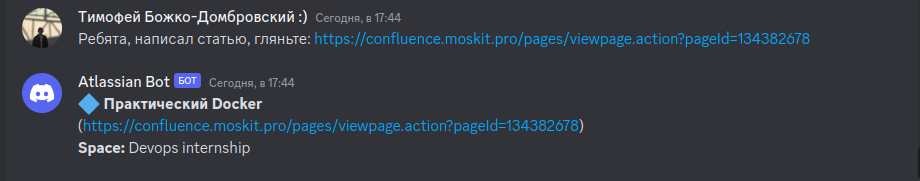
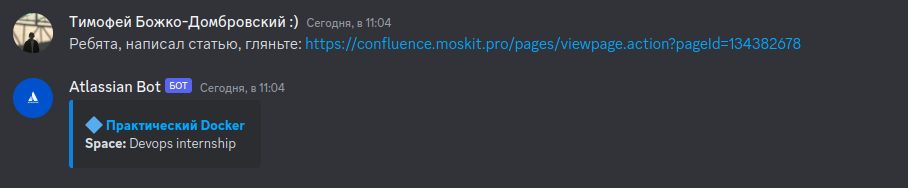
added docker-compose and .env

Changed region(s): [[0.0, 0.3867, 0.6476, 0.884], [0.0, 0.0276, 0.8943, 0.2762], [0.9868, 0.8287, 1.0, 0.9669]]

diff --git a/main.go b/main.go
@@ -16,7 +16,8 @@ import (
 )
 
 var (
-	Conf *Config = &Config{}
+	Conf       *Config = &Config{}
+	EmbedColor int     = 0x0c84df
 )
 
 // checks for issue priroity and marks it with a discord emoji
@@ -55,16 +56,21 @@ func getJiraResponce(issueID string) (string, error) {
 	}
 	// вот тут немного некрасиво, raw string litteral, но поверьте, так сильно легче настраивать сообщение!
 	return fmt.Sprintf(
-		`:arrow_forward: **%v** :arrow_backward:
-(%v)
+		`:arrow_forward: **[%v](%v)** :arrow_backward:
+
 **Приоритет:** %v
+**Assignee:** %v
 **Описание:**
 
 %v`,
-		issue.Fields.Summary, Conf.Atlassian.JiraUrl+"/browse/"+issueID,
-		checkPriority(issue.Fields.Priority.Name), issue.Fields.Description), nil
+		issue.Fields.Summary,
+		Conf.Atlassian.JiraUrl+"/browse/"+issueID,
+		checkPriority(issue.Fields.Priority.Name),
+		issue.Fields.Assignee.DisplayName,
+		issue.Fields.Description), nil
 }
 
+// gets confluence page description and formats it to a discrod message
 func getConfluenceResponce(contentID string) (string, error) {
 	// create confluence api
 	cfApi, err := confluence.NewAPI(Conf.Atlassian.ConfluenceUrl, Conf.Atlassian.Username, Conf.Atlassian.Password)
@@ -80,8 +86,7 @@ func getConfluenceResponce(contentID string) (string, error) {
 	}
 	// вот тут немного некрасиво, raw string litteral, но поверьте, так сильно легче настраивать сообщение!
 	return fmt.Sprintf(
-		`:large_blue_diamond: **%v**
-(%v)
+		`:large_blue_diamond: **[%v](%v)**
 **Space:** %v`,
 		content.Title, Conf.Atlassian.ConfluenceUrl+"/pages/viewpage.action?pageId="+contentID, content.Space.Name), nil
 }
@@ -190,8 +195,13 @@ func messageParser(s *discordgo.Session, m *discordgo.MessageCreate) {
 		if err != nil {
 			s.ChannelMessageSend(m.ChannelID, match+" - ошибка - "+getErrorMessage(err))
 		} else {
-			s.ChannelMessageSend(m.ChannelID, description)
+			//s.ChannelMessageSend(m.ChannelID, description)
+			s.ChannelMessageSendEmbed(m.ChannelID, &discordgo.MessageEmbed{
+				Description: description,
+				Color:       EmbedColor, // yellow, because bees are yellow!!!
+			})
 		}
+		// 0xbbcd36
 	}
 }
 

diff --git a/config.go b/config.go
@@ -1,9 +1,7 @@
 package main
 
 import (
-	"os"
-
-	"gopkg.in/yaml.v3"
+	"github.com/ilyakaznacheev/cleanenv"
 )
 
 type (
@@ -13,22 +11,21 @@ type (
 	}
 	Bot struct {
 		Prefix string `yaml:"commandPrefix"`
-		Token  string `yaml:"token"`
+		Token  string `yaml:"token" env:"DISCORD_TOKEN" env-required:"true"`
 	}
 	Atlassian struct {
 		JiraUrl       string `yaml:"jiraUrl"`
 		ConfluenceUrl string `yaml:"confluenceUrl"`
-		Username      string `yaml:"username"`
-		Password      string `yaml:"password"`
+		Username      string `yaml:"username" env:"ATLASSIAN_USERNAME" env-required:"true"`
+		Password      string `yaml:"password" env:"ATLASSIAN_PASSWORD" env-required:"true"`
 	}
 )
 
 func NewConfig(path string) (*Config, error) {
-	data, err := os.ReadFile(path)
+	var conf = &Config{}
+	err := cleanenv.ReadConfig("config.yaml", conf)
 	if err != nil {
 		return nil, err
 	}
-	conf := &Config{}
-	err = yaml.Unmarshal(data, conf)
-	return conf, err
+	return conf, nil
 }
